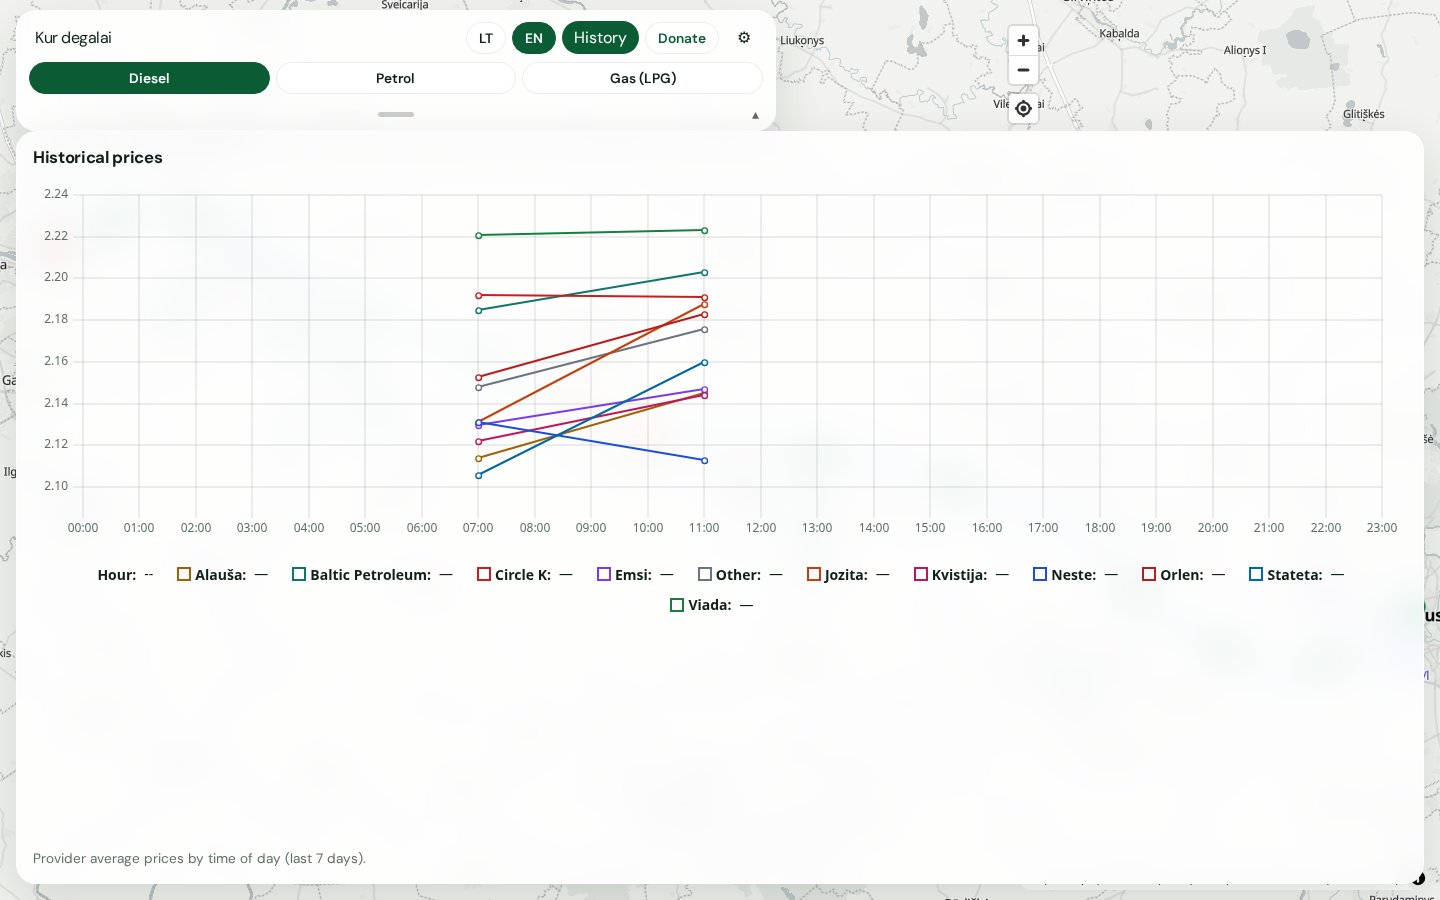
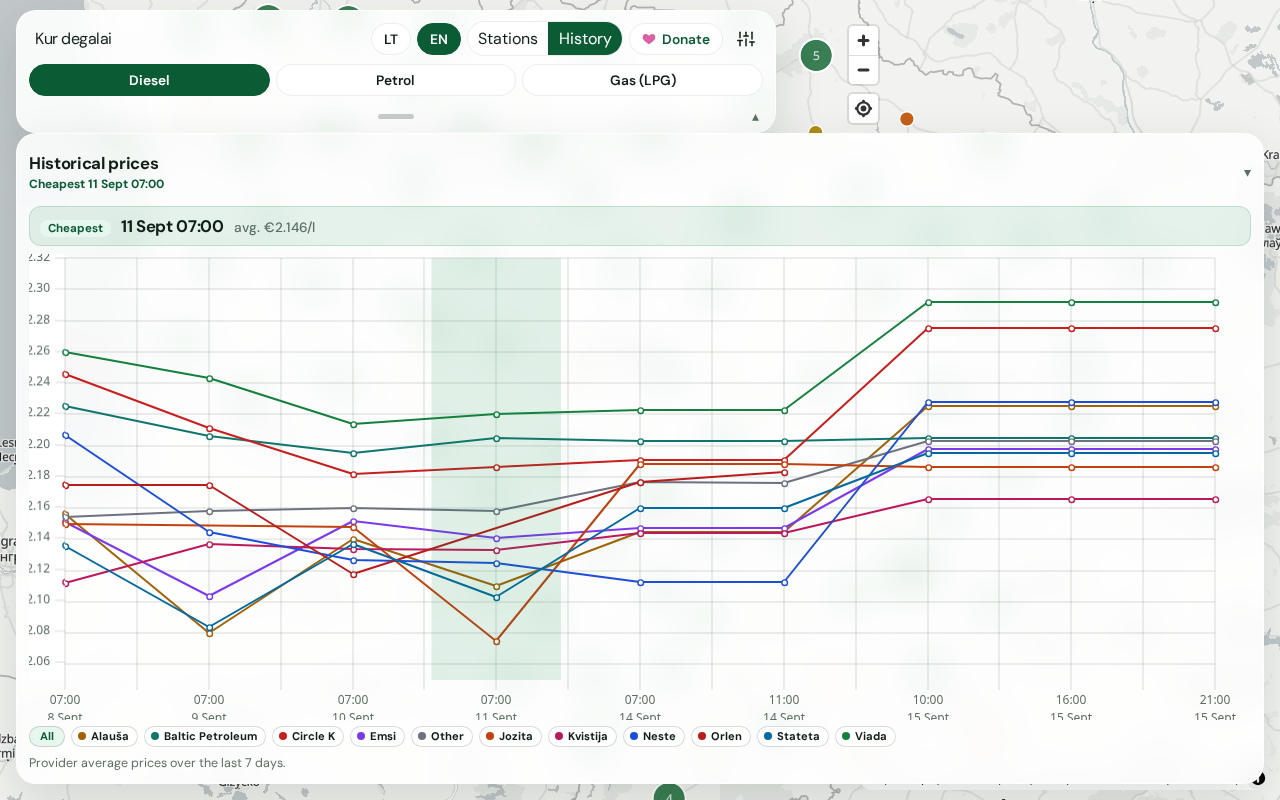
Keep the last date/time tick visible and scroll the chart from the start in e2e.
Add right padding so two-line labels are not clipped, and reset scroll position before checking wheel panning on a phone.

diff --git a/src/history-view.ts b/src/history-view.ts
@@ -12,7 +12,7 @@ export { brandColor, chartBrands } from "./history-series.ts";
 export const HISTORY_HOUR_MIN_PX = 64;
 export const HISTORY_Y_AXIS_PX = 36;
 export const HISTORY_X_AXIS_PX = 40;
-export const HISTORY_X_PAD_PX = 8;
+export const HISTORY_X_PAD_PX = 36;
 
 export function providerSeries(
   file: HistoryFile | null,
@@ -115,7 +115,7 @@ export function mountHistoryChart(
     {
       width: size.width,
       height: size.height,
-      padding: [4, 6, 0, 0],
+      padding: [4, HISTORY_X_PAD_PX, 0, 0],
       cursor: {
         focus: { prox: 24 },
         show: scroll.clientWidth >= 480,

diff --git a/e2e/smoke.spec.ts b/e2e/smoke.spec.ts
@@ -134,7 +134,11 @@ test("history chart scrolls left and right on a phone", async ({ page }) => {
   await expect
     .poll(async () => scroll.evaluate((el) => el.scrollWidth - el.clientWidth))
     .toBeGreaterThan(80);
+  await scroll.evaluate((el) => {
+    el.scrollLeft = 0;
+  });
   const startLeft = await scroll.evaluate((el) => el.scrollLeft);
+  expect(startLeft).toBe(0);
 
   const box = await scroll.boundingBox();
   expect(box).toBeTruthy();

diff --git a/tests/history-view.test.ts b/tests/history-view.test.ts
@@ -74,8 +74,8 @@ describe("historyChartWidth", () => {
     expect(min).toBeGreaterThan(320);
   });
 
-  it("uses the viewport when it already fits every hour", () => {
-    expect(historyChartWidth(1600, 24)).toBe(1600);
+  it("uses the viewport when it already fits every sample", () => {
+    expect(historyChartWidth(1600, 9)).toBe(1600);
   });
 });
 
